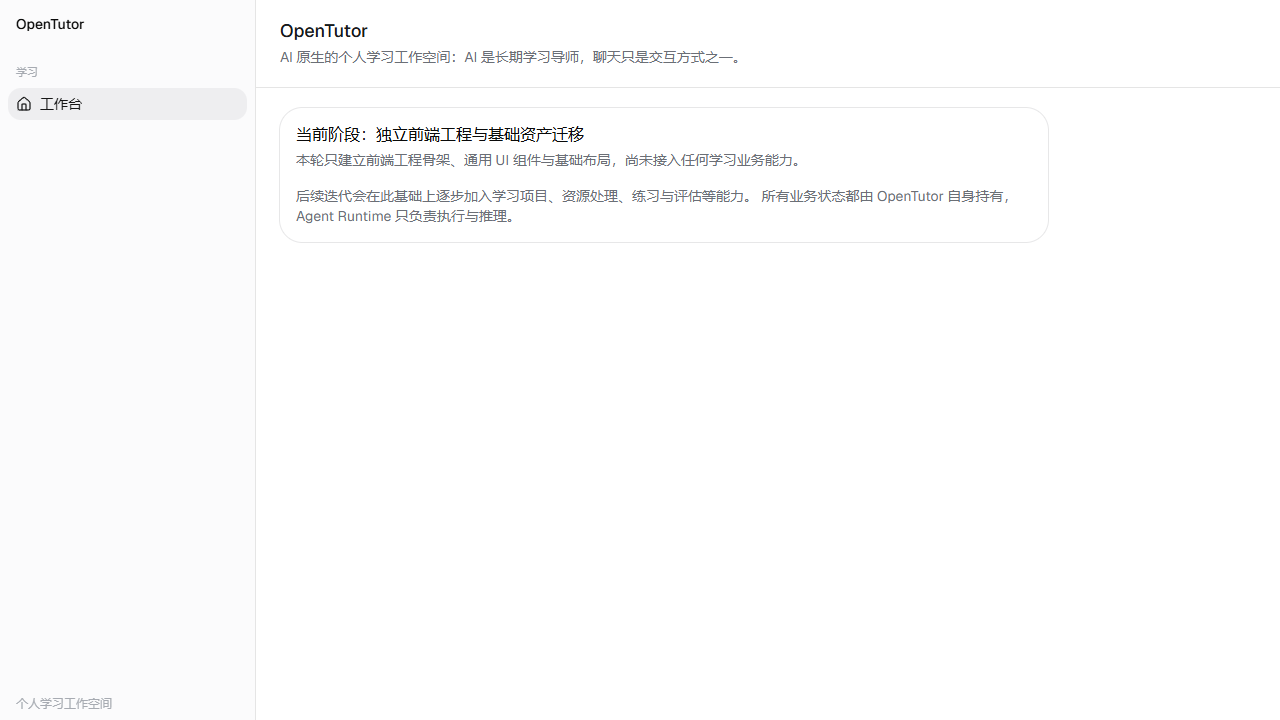
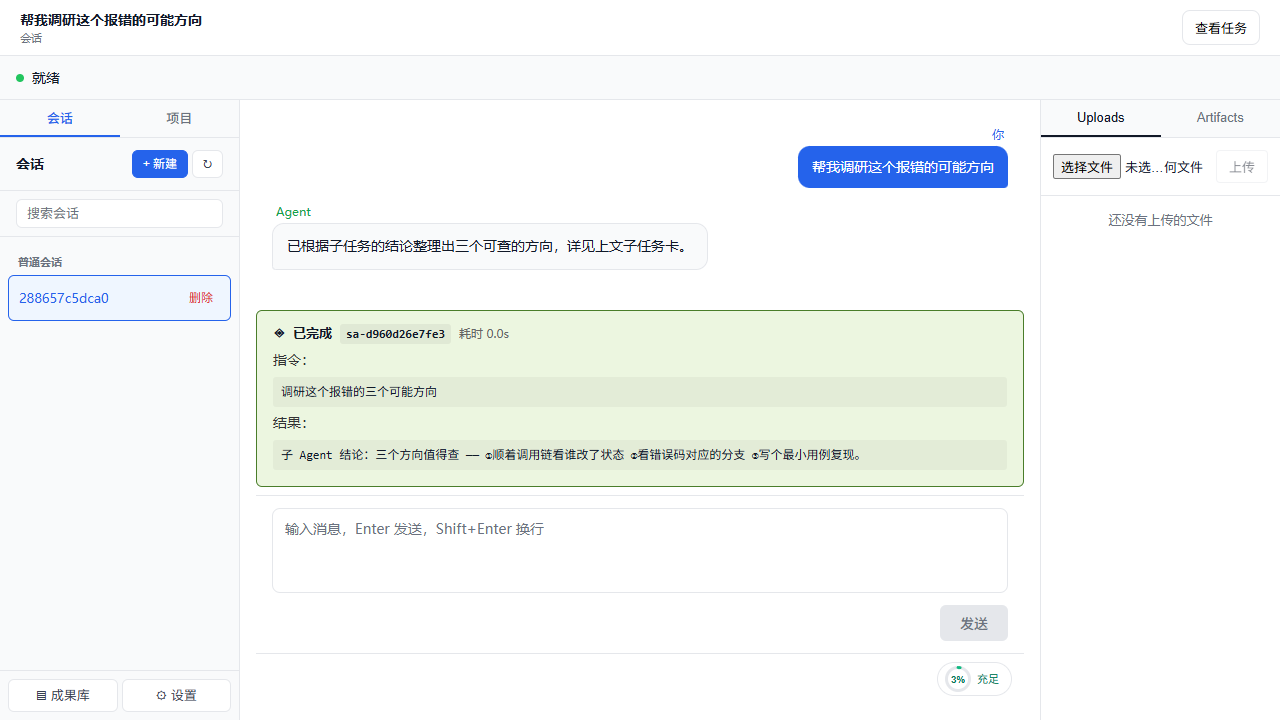
fix(docs): 更正截错的证据截图，换成确认过的 mini-deerflow 实机图
`card-after-fix-reload.png` 的第一版不是 mini-deerflow 的页面，而是同一浏览器里
另一个项目（OpenTutor）的页面 —— `playwright-cli screenshot` 截到了别的标签，
提交时没有回看图片内容。属于"证据与结论不符"，必须更正。

- 用独立 playwright 会话在脚本模型验收后端上重走：新建会话 → 发消息 →
  出现子任务卡 → F5 刷新
- 新图 `card-after-fix.png` / 替换后的 `card-after-fix-reload.png`
  均**逐张回看确认**：Mini DeerFlow 页面、卡片 sa-d960d26e7fe3 已完成、
  侧栏没有 subagent- 条目
- 原有 `card-render.png` / `card-after-reload.png` 是对的，保留（后者正好记录了
  修复前的侧栏泄漏缺陷）

顺带：`.playwright-cli/` 产物加入 gitignore（可能在任意目录生成）

diff --git a/docs/PROGRESS.md b/docs/PROGRESS.md
@@ -5854,7 +5854,7 @@ Python 导入确认：`PYTHONPATH=<整合 worktree>/src`，`mini_deerflow` /
 | 会话列表不再泄漏 | `GET /api/threads` | **无任何 `subagent-` 条目**（修复前有） |
 | G6 API 重读 | `GET /api/threads/{父线程}` → `subagent_runs` | **1 条，`status=SUCCEEDED`，含子 Agent 产出** |
 | 浏览器实机（UI 层） | 前端 dev server `:5188` + Playwright | 卡片渲染 ✅；`reload()` 后卡片仍在 ✅；整页 `innerText` 无 `subagent-` 串 ✅ |
-| 证据截图 | `docs/evidence/subagent/` | `card-render.png` / `card-after-reload.png` / `card-after-fix-reload.png` |
+| 证据截图 | `docs/evidence/subagent/` | `card-render.png` / `card-after-reload.png`（**这两张能看到缺陷**：刷新后侧栏出现 `subagent-sa-…`） / `card-after-fix.png` / `card-after-fix-reload.png`（修复后：侧栏只剩用户会话） |
 
 ### 本轮新增的可复用验收工具
 
@@ -5864,6 +5864,18 @@ Python 导入确认：`PYTHONPATH=<整合 worktree>/src`，`mini_deerflow` /
 | `scripts/subagent_demo.py` | **终端验收入口**：直接跑主 Agent → 派发 → 子 Agent 产出 → 落库记录，打印全部中间产物。 |
 
 两个脚本都复用生产工具链路、SSE、落库、Trace，**只换模型**。
+
+### 更正：证据截图曾经截错页面（2026-11-08 12:55）
+
+`card-after-fix-reload.png` 的**第一版不是 mini-deerflow 的截图**，而是同一浏览器里
+另一个项目（OpenTutor）的页面 —— `playwright-cli screenshot` 截到了别的页面，而提交时
+没有回看图片内容。这是**证据造假性质**的错误（不是代码问题，但结论不可信），已更正：
+
+- 用**独立的 playwright 会话**在 `http://127.0.0.1:5190`（脚本模型验收后端 `:8331`）
+  重新走了一遍「新建会话 → 发消息 → 出现子任务卡 → F5 刷新」；
+- 两张新截图 `card-after-fix.png` / `card-after-fix-reload.png` **逐张回看确认**：
+  页面是 Mini DeerFlow、卡片 `sa-d960d26e7fe3` 已完成、**侧栏没有 `subagent-` 条目**；
+- 教训：截图类证据必须**打开看一遍**再提交，`eval` 读到的页面文本不能替代图片内容的核对。
 
 ### 未验证事项（不变）
 
